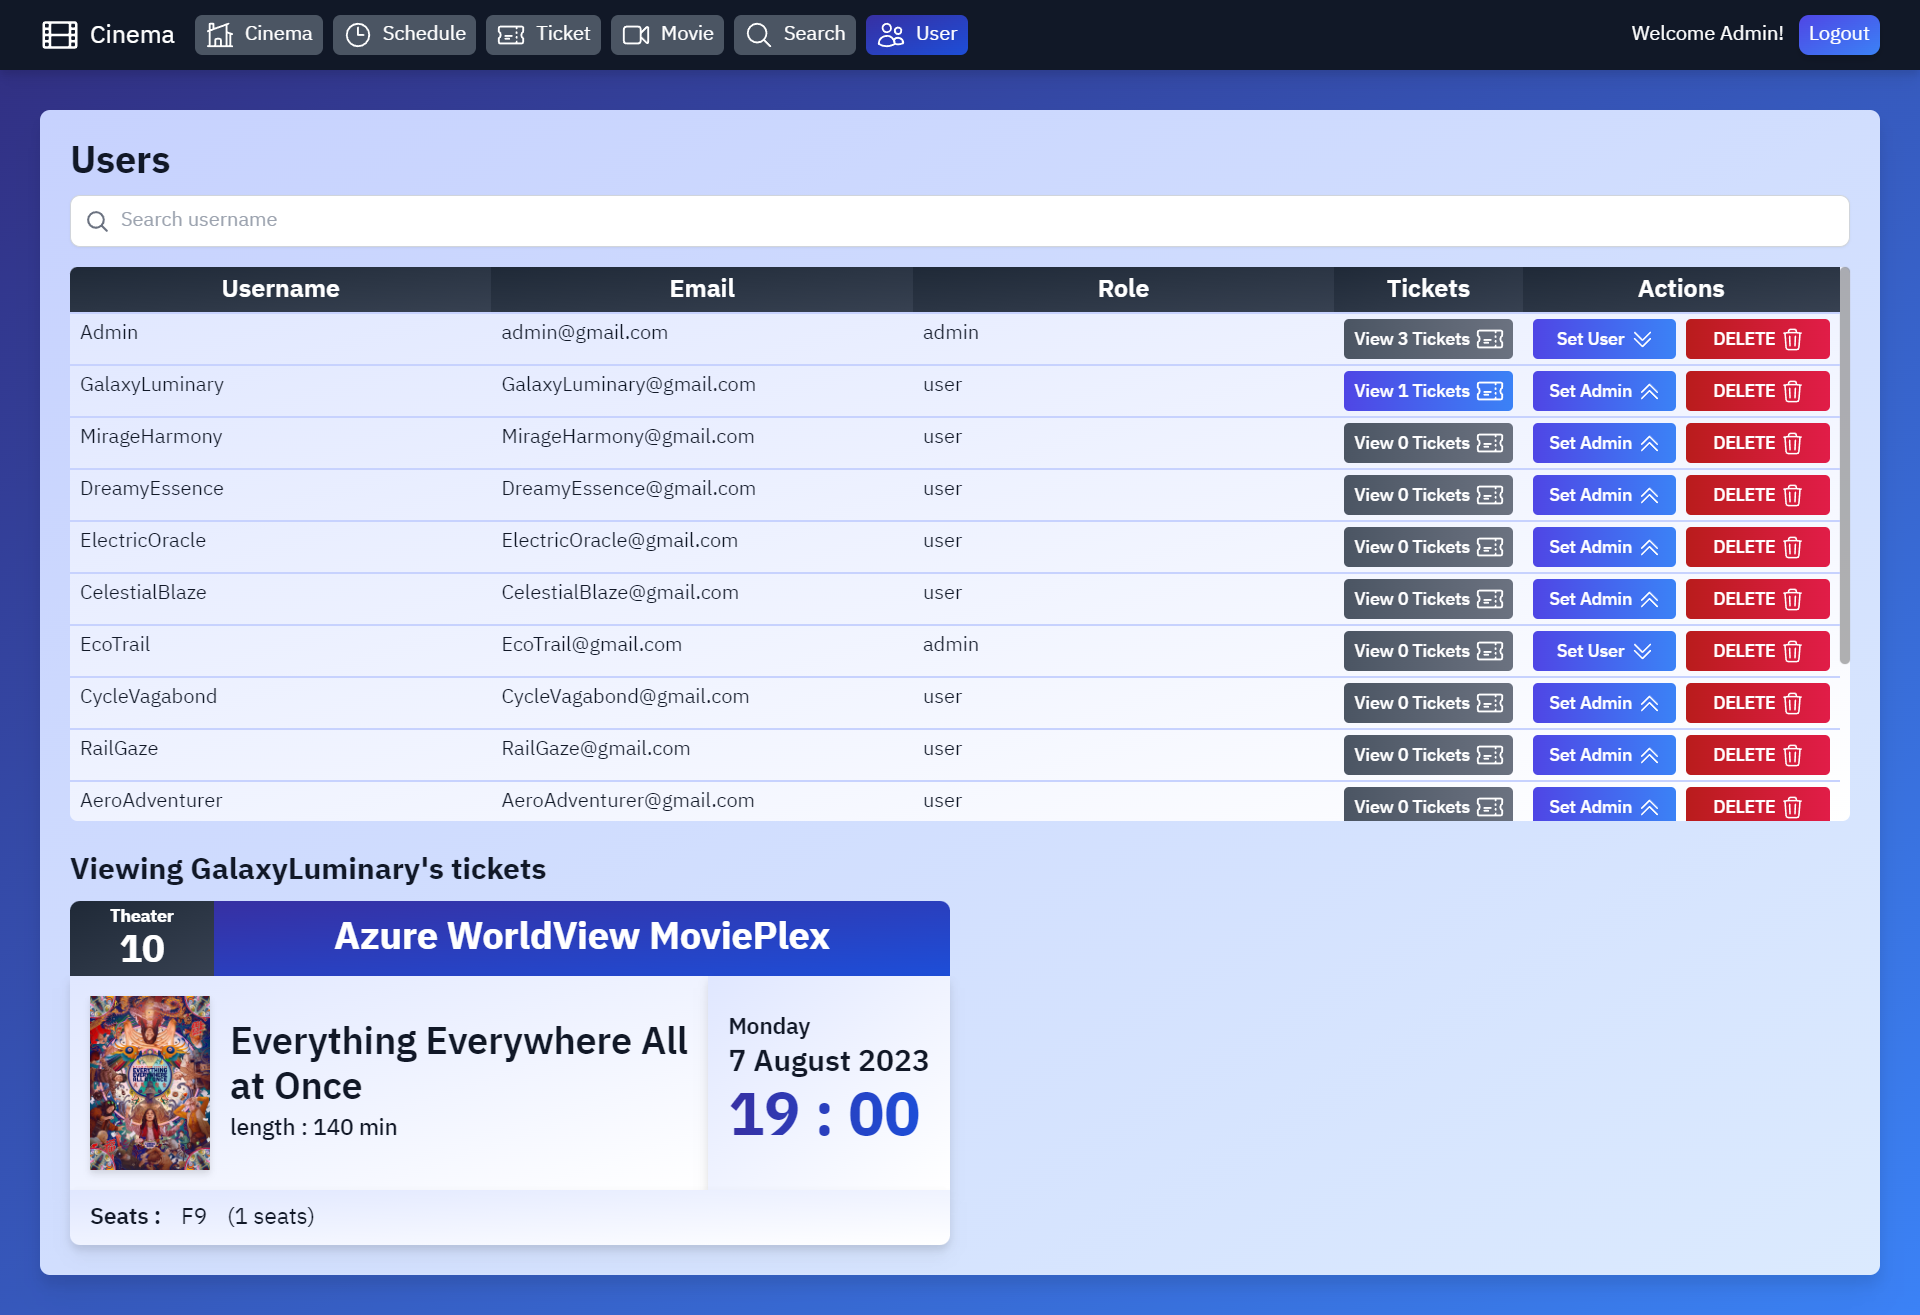
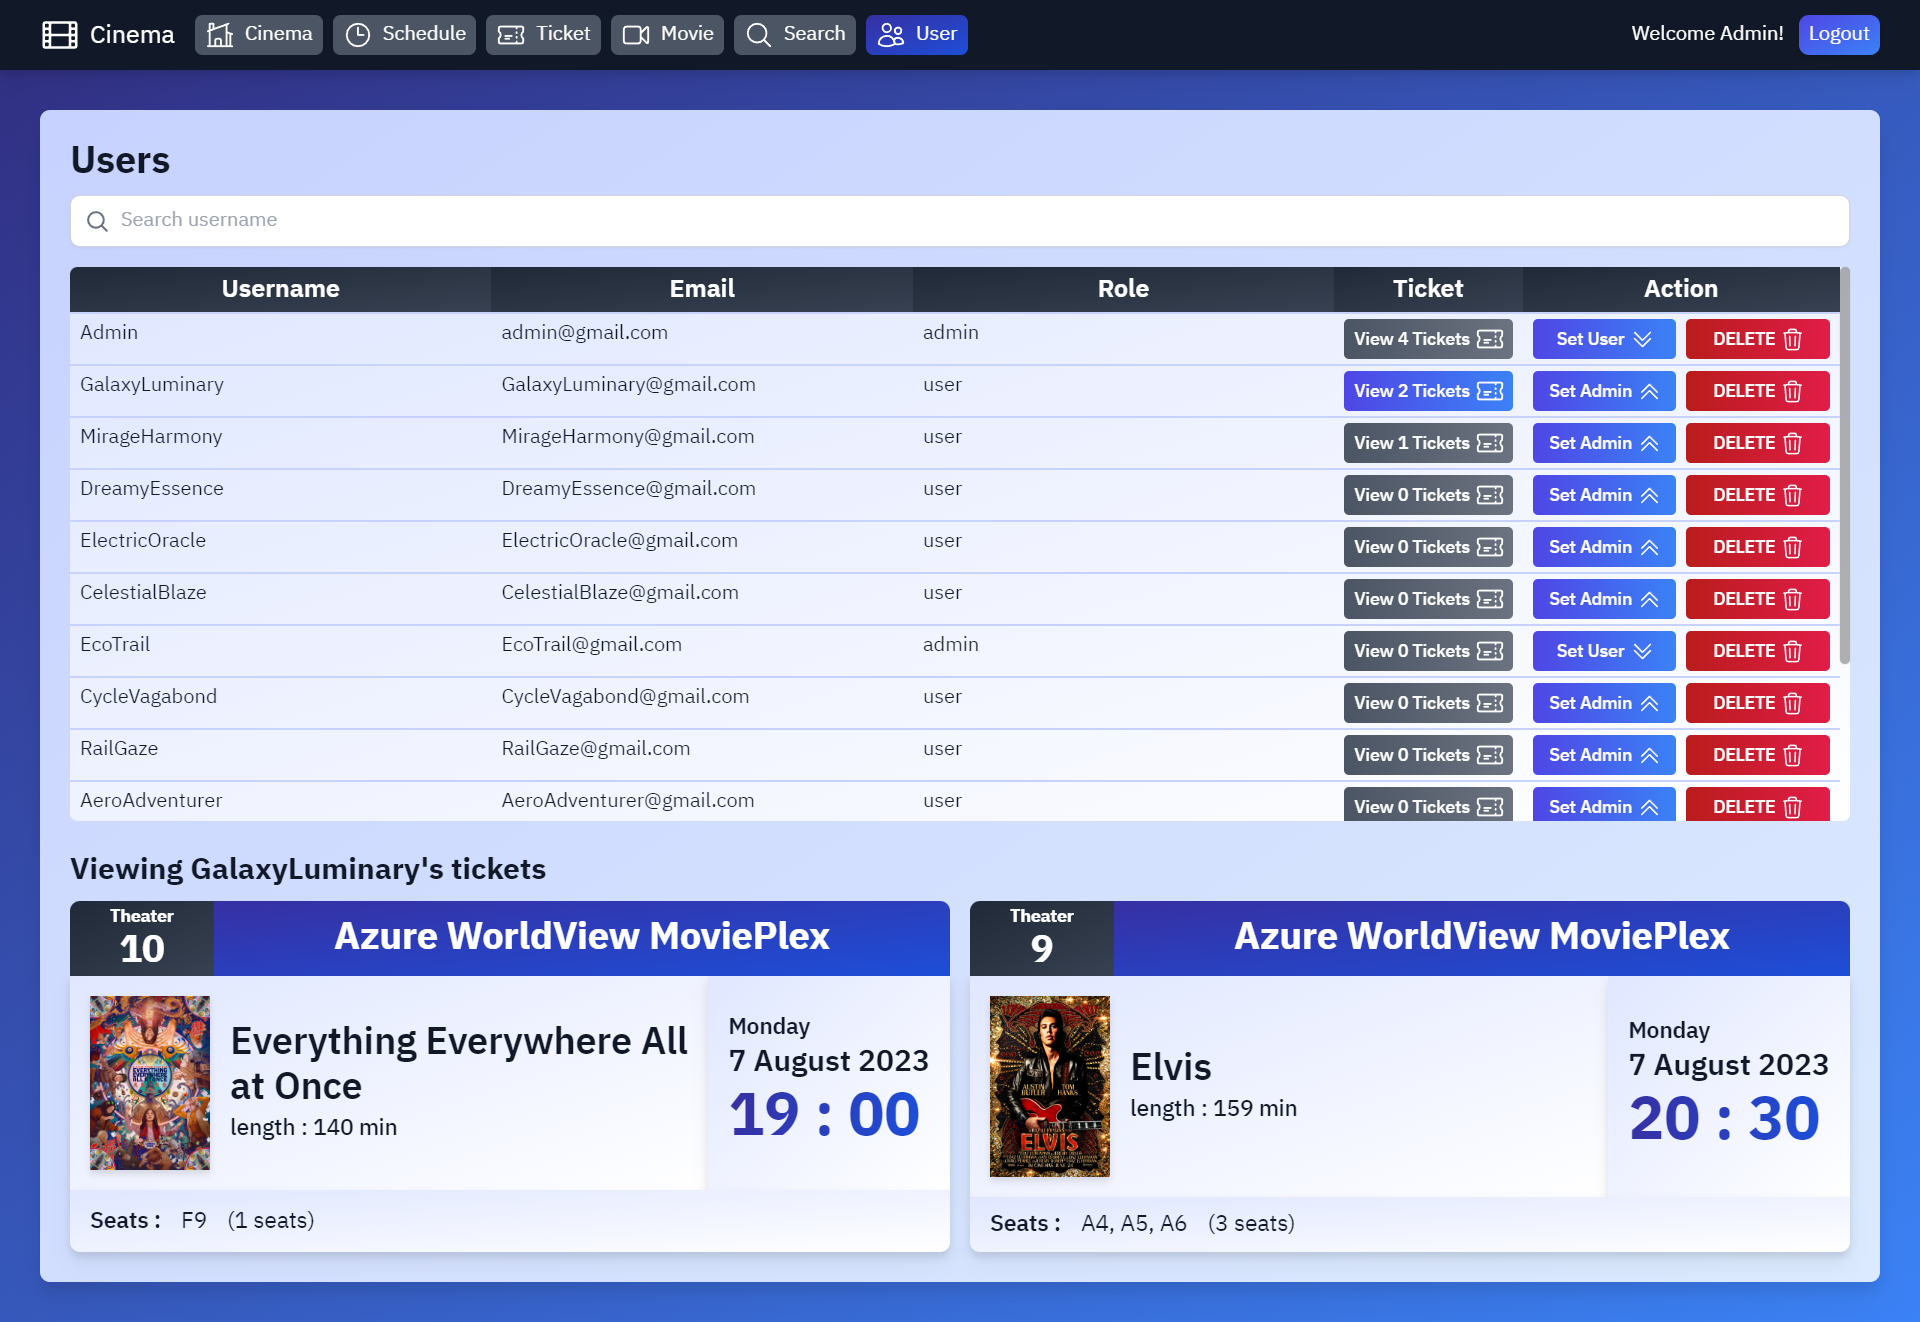
Update user lists table

diff --git a/client/src/pages/User.jsx b/client/src/pages/User.jsx
@@ -141,10 +141,10 @@ const User = () => {
 						Role
 					</p>
 					<p className="sticky top-0 bg-gradient-to-br from-gray-800 to-gray-700 px-2 py-1 text-center text-xl font-semibold text-white">
-						Tickets
+						Ticket
 					</p>
 					<p className="sticky top-0 bg-gradient-to-br from-gray-800 to-gray-700 px-2 py-1 text-center text-xl font-semibold text-white">
-						Actions
+						Action
 					</p>
 					{users
 						?.filter((user) => user.username.toLowerCase().includes(watch('search')?.toLowerCase() || ''))

diff --git a/README.md b/README.md
@@ -10,14 +10,14 @@ Demo: https://cinema-booking-client.vercel.app/
 * [How to run the app](#how-to-run-the-app)
 
 ## Technologies
-* React 18.2.0
-* React Router Dom 6.14.2
-* React Hook Form 7.45.4
-* Tailwind CSS 3.3.3
-* Vite 4.4.8
+* React v18.2.0
+* React Router Dom v6.14.2
+* React Hook Form v7.45.4
+* Tailwind CSS v3.3.3
+* Vite v4.4.8
 * NodeJS
-* Mongoose 7.4.2
-* Express 4.18.2
+* Mongoose v7.4.2
+* Express v4.18.2
 * MongoDB
 * And more...
 
@@ -37,7 +37,7 @@ Demo: https://cinema-booking-client.vercel.app/
 ### Schedule page
 <img src="./images/schedule.png" width="600">
 
-### Showtime page
+### Showtime/Booking page
 <img src="./images/showtime.png" width="600">
 
 ### Ticket page
